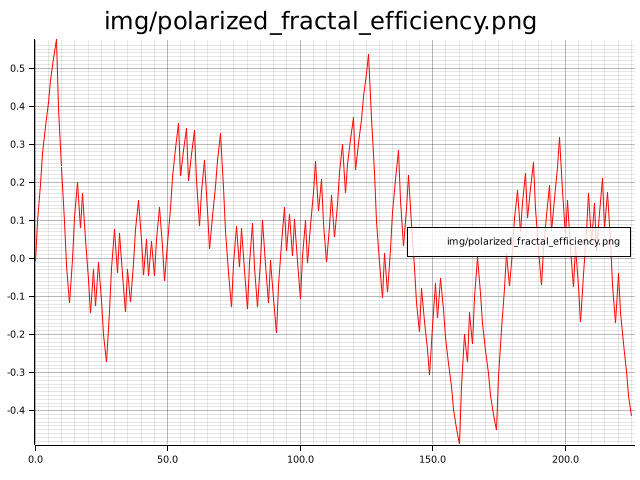
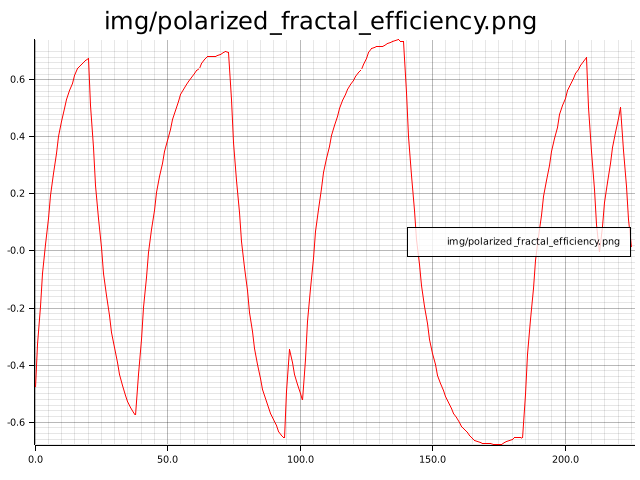
polarized_fractal_efficiency: follow the standard formula, bounded by 1
Three deviations from Hannula's PFE let the output leave its documented
[-1, 1]: the path length summed window_len - 2 segments while the
straight line spanned window_len steps, instead of both spanning the
window_len - 1 steps between its values, and the sign came from the last
step instead of the move over the window, so the output flipped on every
one-step reversal. Both distances now span the same steps, so the ratio is
at most 1 by the triangle inequality (rounding is clamped), and the sign
is that of last - first.

A window of 1 underflowed window_len - 2; the constructor now asserts at
least two values. The pipeline declares [-1, 1] for pfe again.

Changed region(s): [[0.0, 0.0938, 1.0, 0.9375]]

diff --git a/src/sliding_windows/polarized_fractal_efficiency.rs b/src/sliding_windows/polarized_fractal_efficiency.rs
@@ -31,8 +31,16 @@ where
     T: Float,
 {
     /// Create a new PolarizedFractalEfficiency indicator with a chained view, custom moving
-    /// average and a window length
+    /// average and a window length.
+    ///
+    /// # Panics
+    ///
+    /// If `window_len` is 1: the efficiency of a single value is undefined.
     pub fn new(view: V, moving_average: M, window_len: NonZeroUsize) -> Self {
+        assert!(
+            window_len.get() >= 2,
+            "a fractal efficiency needs at least two values"
+        );
         Self {
             view,
             moving_average,
@@ -60,20 +68,8 @@ where
         }
         self.q_vals.push_back(val);
 
-        let window_len = T::from(self.window_len.get()).expect("can convert");
         if self.q_vals.len() >= self.window_len.get() {
-            let mut s = T::zero();
-            let wl: usize = self.window_len.get() - 1;
-            for i in 0..self.window_len.get() - 2 {
-                let v_0 = *self.q_vals.get(wl - i).unwrap();
-                let v_1 = *self.q_vals.get(wl - i - 1).unwrap();
-                s = s + ((v_0 - v_1).powi(2) + T::one()).sqrt();
-            }
-            let mut p =
-                ((val - *self.q_vals.front().unwrap()).powi(2) + window_len.powi(2)).sqrt() / s;
-            if val < *self.q_vals.get(self.window_len.get() - 2).unwrap() {
-                p = -p;
-            }
+            let p = efficiency(&self.q_vals);
             // apply a moving average
             self.moving_average.update(p);
             self.out = self.moving_average.last();
@@ -86,6 +82,31 @@ where
             debug_assert!(v.is_finite(), "value must be finite");
         })
     }
+}
+
+/// The polarized efficiency of the path through `vals`, one unit of time
+/// apart: the straight distance from the first to the last value over the
+/// length of the path, negative when the last value is below the first.
+///
+/// Both span the same `n = len - 1` steps, so by the triangle inequality the
+/// magnitude is at most 1 (up to rounding, which is clamped).
+fn efficiency<T: Float>(vals: &VecDeque<T>) -> T {
+    assert!(vals.len() >= 2, "a path has at least two values");
+    let (first, last) = (
+        *vals.front().expect("not empty"),
+        *vals.back().expect("not empty"),
+    );
+    let steps = T::from(vals.len() - 1).expect("can convert");
+    let path = vals
+        .iter()
+        .zip(vals.iter().skip(1))
+        .fold(T::zero(), |sum, (a, b)| {
+            sum + ((*b - *a).powi(2) + T::one()).sqrt()
+        });
+    debug_assert!(path >= steps, "every step is at least one unit long");
+    let straight = ((last - first).powi(2) + steps.powi(2)).sqrt();
+    let magnitude = (straight / path).min(T::one());
+    if last < first { -magnitude } else { magnitude }
 }
 
 #[cfg(test)]
@@ -113,6 +134,49 @@ mod tests {
                 assert!(val >= -1.0);
             }
         }
+    }
+
+    /// A straight path is fully efficient, in its direction; one segment
+    /// too few in the path length used to push it beyond 1.
+    #[test]
+    fn efficiency_of_reference_paths() {
+        let path = |vals: &[f64]| efficiency(&VecDeque::from_iter(vals.iter().copied()));
+        assert!((path(&[1.0, 2.0, 3.0, 4.0]) - 1.0).abs() < 1e-12);
+        assert!((path(&[4.0, 3.0, 2.0, 1.0]) + 1.0).abs() < 1e-12);
+        assert_eq!(path(&[5.0, 5.0, 5.0]), 1.0, "a flat path is straight");
+        // Up 3 then down 2: the direction is that of the whole window, not
+        // of the last step. Straight sqrt(1 + 4), path sqrt(10) + sqrt(5).
+        let expected = 5.0_f64.sqrt() / (10.0_f64.sqrt() + 5.0_f64.sqrt());
+        assert!((path(&[1.0, 4.0, 2.0]) - expected).abs() < 1e-12);
+        let zigzag = path(&[0.0, 10.0, 0.0, 10.0, 0.0]);
+        assert!(zigzag.abs() < 0.11, "{zigzag}");
+    }
+
+    #[test]
+    fn pfe_without_smoothing_stays_in_range() {
+        for window in [2, 3, 10] {
+            let mut pfe = PolarizedFractalEfficiency::new(
+                Echo::new(),
+                Echo::new(),
+                NonZeroUsize::new(window).unwrap(),
+            );
+            for v in &TEST_DATA {
+                pfe.update(*v);
+                if let Some(val) = pfe.last() {
+                    assert!((-1.0..=1.0).contains(&val), "window {window}: {val}");
+                }
+            }
+        }
+    }
+
+    #[test]
+    #[should_panic(expected = "at least two values")]
+    fn window_of_one_is_rejected() {
+        let _ = PolarizedFractalEfficiency::<f64, _, _>::new(
+            Echo::new(),
+            Echo::new(),
+            NonZeroUsize::new(1).unwrap(),
+        );
     }
 
     #[test]

diff --git a/src/pipeline/function.rs b/src/pipeline/function.rs
@@ -493,11 +493,9 @@ functions! {
     }
     Pfe {
         name: "pfe", params: [Window, Window], min_window: 3, requires: Any,
-        // Not [-1, 1] as documented: the path length sums one segment too
-        // few, so the efficiency exceeds 1.
-        range: |_, _| Domain::REAL,
+        range: |_, _| Domain::closed(-1.0, 1.0),
         build: |p| PolarizedFractalEfficiency::new(Echo::new(), ema(p.window(1)), p.window(0)).into(),
-        doc: "Polarized fractal efficiency (window, EMA smoothing window): near 1 in a straight up-trend, near -1 down.",
+        doc: "Polarized fractal efficiency (window, EMA smoothing window), in [-1, 1]: near 1 in a straight up-trend, near -1 down.",
     }
     Fisher {
         name: "fisher", params: [Window, Window], min_window: 2, requires: Any,
